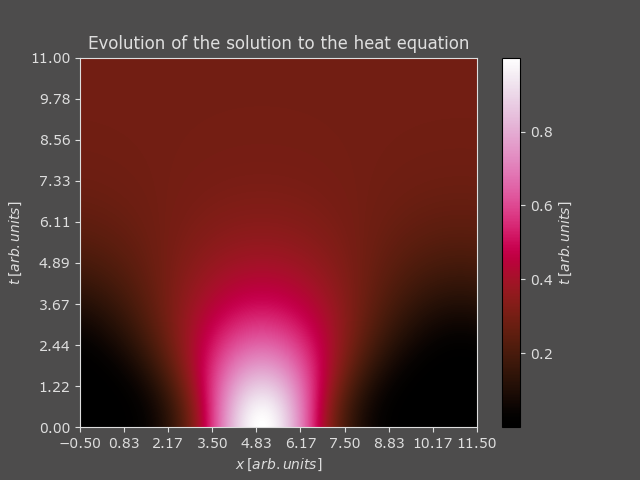
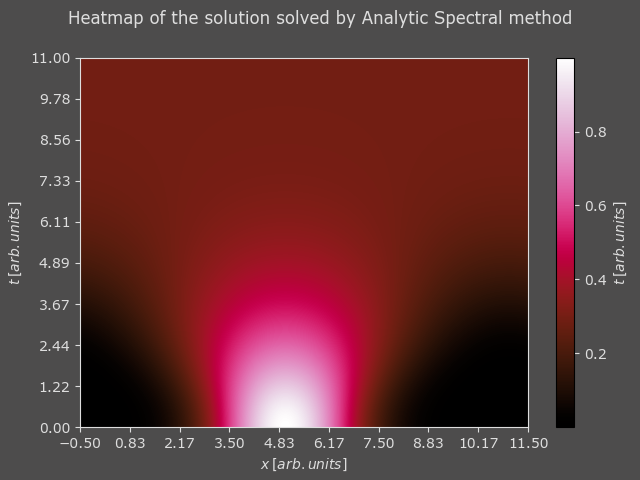
style(plots): :art: plot tweaks and image upload

Changed region(s): [[0.1562, 0.0938, 0.9688, 1.0], [0.0938, 0.0, 0.9062, 0.125]]

diff --git a/spectral.py b/spectral.py
@@ -312,6 +312,7 @@ class SpectralSolver:
         else:
             raise ValueError("Method must be either 'analytical' or 'numerical'!")
 
+        # TODO REMOVE TEMP MIN MAX
         plt.imshow(data, cmap=cmr.flamingo, aspect="auto", vmin=np.min(data), vmax=np.max(data),
                    extent=[self.x_range[0], self.x_range[1], self.t_points[0], self.t_points[-1]])
 
@@ -322,7 +323,7 @@ class SpectralSolver:
 
         plt.xlabel(r"$x\>[arb. units]$")
         plt.ylabel(r"$t\>[arb. units]$")
-        plt.title("Evolution of the solution to the heat equation", color="#dedede")
+        plt.suptitle("Heatmap of the solution solved by Numerical Spectral method", color="#dedede")
         norm = mpl.colors.Normalize(vmin=np.min(data), vmax=np.max(data))
         scalar_Mappable = plt.cm.ScalarMappable(norm=norm, cmap=cmr.flamingo)
         cb = plt.colorbar(scalar_Mappable, ax=ax, label=r"$T\>[arb. units]$",
@@ -340,7 +341,7 @@ class SpectralSolver:
         ax.yaxis.label.set_color("#dedede")
         ax.tick_params(axis="x", colors="#dedede")
         ax.tick_params(axis="y", colors="#dedede")
-
+        plt.subplots_adjust(right=1)
         plt.show()
        
     def plot_Hexgrid(self, method: str = "analytical", size=(100, 100)):
@@ -502,7 +503,7 @@ class SpectralSolver:
         ax.set_ylim(-0.25, 1.25)
         # ax.set_ylim(np.min(self.solution), np.max(self.solution))
 
-        ax.set_title("Evolution of the solution to the heat equation", color="#dedede")
+        plt.suptitle("Evolution of the solution solved by Numerical Spectral method", color="#dedede")
 
         # Make it dark
         ax.set_facecolor("#bababa")
@@ -523,4 +524,5 @@ class SpectralSolver:
         ax.tick_params(axis="x", colors="#dedede")
         ax.tick_params(axis="y", colors="#dedede")
         ax.axhline(0, linestyle="--", color="#dedede")
+        plt.subplots_adjust(right=1)
         plt.show()
